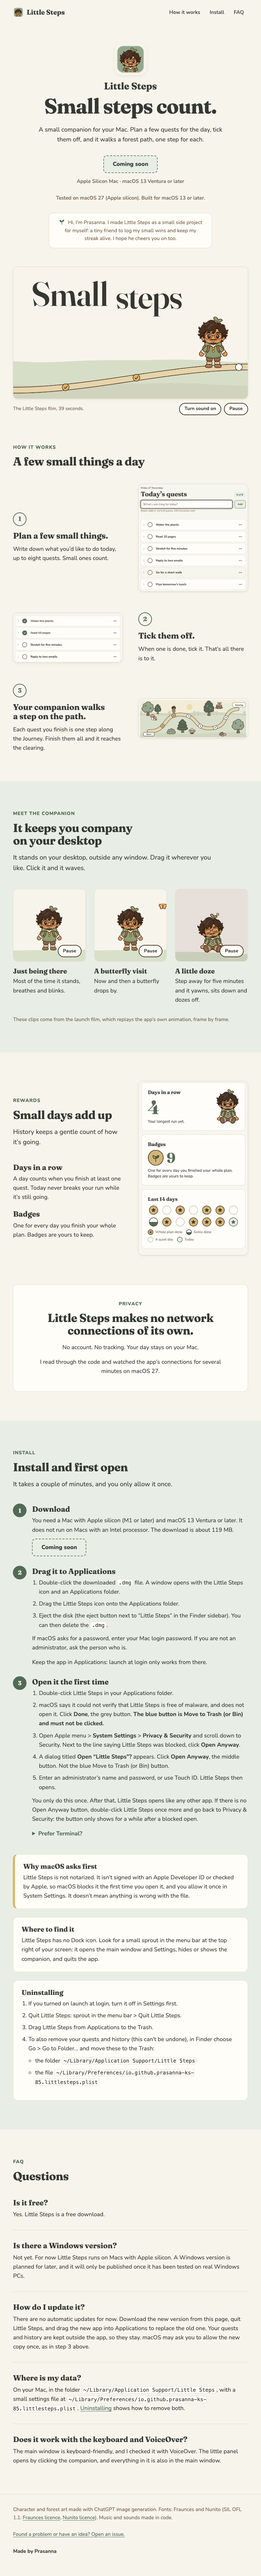
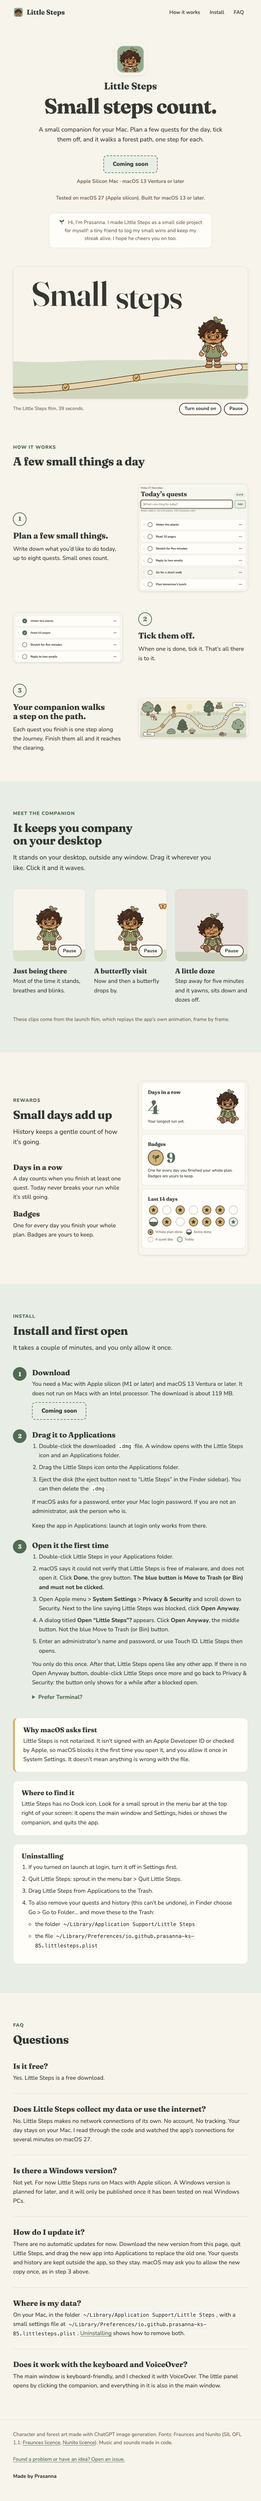
Privacy: from its own section to a FAQ entry

Changed region(s): [[0.0312, 0.0, 0.9375, 0.9962], [0.0312, 0.6849, 0.0625, 0.7471], [0.8125, 0.9339, 0.8438, 0.9651]]

diff --git a/docs/privacy-section.html b/docs/privacy-section.html
@@ -1,32 +1,15 @@
 <!--
-  Privacy section. SHIPPED: this is a copy of what sits in index.html, kept so it can be taken off and
-  put back. The page claims only what was checked: no network connections of its own (code read, and the
-  app's connections watched for several minutes on macOS 27). Do not widen the wording without a longer check.
+  The privacy statement. It is NOT a section any more: it is one FAQ entry in index.html, second in the
+  list, right after "Is it free?". This file is the reference copy of that entry.
 
-  To take it off:
-  1. In index.html, replace the whole <section id="privacy"> ... </section> (it sits between the Rewards
-     and Install sections) with the comment "<!-- 5. Privacy: off the page (docs/privacy-section.html) -->".
-  2. Nothing else: the styles (.section--follow, .privacy-card) stay in assets/css/site.css and no script
-     is involved. Then also drop "tracking" from this check: docs/checks.md expects it only in this section.
+  The page claims only what was checked: no network connections of its own (code read, and the app's
+  connections watched for several minutes on macOS 27). Do not widen the wording without a longer check.
 
-  To put it back:
-  1. Copy the <section> below into index.html, in place of that comment.
-  2. That's all.
+  To change it: edit the <dt>/<dd> pair in the FAQ (<dl class="faq">) in index.html, then update the copy
+  below. No styles or script are involved; it uses the same markup as the other entries.
+
+  To take it off: delete the two lines from index.html. "tracking" should appear in index.html only in
+  this answer (docs/checks.md).
 -->
-<section> below into index.html, in place of the comment
-     "<!-- 5. Privacy: not on the page ... -->", which sits between the Rewards and Install sections.
-  2. That's all. The styles are already in assets/css/site.css (.section--follow, .privacy-card),
-     and no script is involved.
-
-  To take it off again, delete the section from index.html.
--->
-<section class="section section--follow" id="privacy" aria-labelledby="privacy-title">
-  <div class="wrap">
-    <div class="privacy-card">
-      <span class="eyebrow">Privacy</span>
-      <h2 id="privacy-title">Little Steps makes no network connections of its own.</h2>
-      <p>No account. No tracking. Your day stays on your Mac.</p>
-      <p>I read through the code and watched the app’s connections for several minutes on macOS 27.</p>
-    </div>
-  </div>
-</section>
+<dt>Does Little Steps collect my data or use the internet?</dt>
+<dd>No. Little Steps makes no network connections of its own. No account. No tracking. Your day stays on your Mac. I read through the code and watched the app’s connections for several minutes on macOS 27.</dd>

diff --git a/index.html b/index.html
@@ -265,19 +265,7 @@
         </div>
       </section>
 
-      <!-- 5. Privacy (how to take it off or put it back: docs/privacy-section.html) -->
-      <section class="section section--follow" id="privacy" aria-labelledby="privacy-title">
-        <div class="wrap">
-          <div class="privacy-card">
-            <span class="eyebrow">Privacy</span>
-            <h2 id="privacy-title">Little Steps makes no network connections of its own.</h2>
-            <p>No account. No tracking. Your day stays on your Mac.</p>
-            <p>I read through the code and watched the app’s connections for several minutes on macOS 27.</p>
-          </div>
-        </div>
-      </section>
-
-      <!-- 6. Install and first open -->
+      <!-- 5. Install and first open -->
       <section class="section section--sage" id="install" aria-labelledby="install-title">
         <div class="wrap">
           <div class="section-head">
@@ -349,7 +337,7 @@
         </div>
       </section>
 
-      <!-- 7. FAQ -->
+      <!-- 6. FAQ -->
       <section class="section" id="faq" aria-labelledby="faq-title">
         <div class="wrap">
           <div class="section-head">
@@ -359,6 +347,9 @@
           <dl class="faq">
             <dt>Is it free?</dt>
             <dd>Yes. Little Steps is a free download.</dd>
+
+            <dt>Does Little Steps collect my data or use the internet?</dt>
+            <dd>No. Little Steps makes no network connections of its own. No account. No tracking. Your day stays on your Mac. I read through the code and watched the app’s connections for several minutes on macOS 27.</dd>
 
             <dt>Is there a Windows version?</dt>
             <dd>Not yet. For now Little Steps runs on Macs with Apple silicon. A Windows version is planned for later, and it will only be published once it has been tested on real Windows PCs.</dd>
@@ -384,7 +375,7 @@
       </section>
     </main>
 
-    <!-- 8. Footer -->
+    <!-- 7. Footer -->
     <footer class="site-footer">
       <div class="wrap">
         <p>

diff --git a/assets/css/site.css b/assets/css/site.css
@@ -385,9 +385,6 @@ pre code {
 .section {
   padding-block: var(--section-space);
 }
-.section--follow {
-  padding-top: 0;
-}
 .section--sage {
   background: var(--color-pale-sage);
 }
@@ -584,20 +581,6 @@ pre code {
 }
 .reward-list p {
   margin-top: var(--space-2);
-}
-
-/* Privacy (shown only when config.privacy is true) */
-.privacy-card {
-  max-width: 44rem;
-  margin-inline: auto;
-  padding: clamp(32px, 6vw, 56px);
-  border-radius: var(--radius-card);
-  background: var(--color-soft-ivory);
-  border: 1px solid var(--color-hairline);
-  text-align: center;
-}
-.privacy-card p {
-  margin-top: var(--space-4);
 }
 
 /* Install */

diff --git a/assets/js/config.js b/assets/js/config.js
@@ -5,8 +5,8 @@
 //           https://github.com/Prasanna-KS-85/little-steps-site/releases/latest/download/Little-Steps.dmg
 // owner:    the GitHub account that holds the little-steps-site repository.
 //
-// The Privacy section is not a switch: it is plain HTML in index.html.
-// How to take it off or put it back: docs/privacy-section.html.
+// The privacy answer is not a switch: it is a plain FAQ entry in index.html.
+// Where it lives and how to change it: docs/privacy-section.html.
 window.LITTLE_STEPS_CONFIG = {
   download: 'soon',
   owner: 'Prasanna-KS-85',

diff --git a/README.md b/README.md
@@ -19,8 +19,8 @@ Then open http://127.0.0.1:8765/ and stop the server with Ctrl+C when done.
   release, `Little-Steps.dmg`)
 - `owner`: the GitHub account in that link
 
-The Privacy section is in the page. How to take it off again, and put it back, is in
-`docs/privacy-section.html`.
+There is no Privacy section. The privacy statement is one FAQ entry in `index.html` ("Does Little Steps
+collect my data or use the internet?"). Where it lives and how to change it: `docs/privacy-section.html`.
 
 ## Files
 
@@ -32,7 +32,7 @@ The Privacy section is in the page. How to take it off again, and put it back, i
 | `assets/fonts/`          | Fraunces and Nunito from the app, with their SIL OFL 1.1 licence texts      |
 | `assets/img`, `video`    | Built by `tools/build_assets.py` from the app and launch repos (read-only)  |
 | `tools/`                 | Dev-only: asset build, contrast check, screenshot and request audit         |
-| `docs/`                  | Open items, checks, screenshots, the Privacy section (how to remove or restore) |
+| `docs/`                  | Open items, checks, screenshots, the FAQ privacy entry (where it lives, how to change it) |
 
 ## Rebuild the images and videos
 

diff --git a/docs/site-open-items.md b/docs/site-open-items.md
@@ -5,10 +5,11 @@ Each one names what would close it.
 
 ## Waiting on a check
 
-1. **Privacy section is in the page, with a modest check behind it.** It says only that Little Steps
-   makes no network connections of its own, and that I read through the code and watched the app's
+1. **The privacy statement is a FAQ entry, with a modest check behind it.** The entry "Does Little
+   Steps collect my data or use the internet?" (second in the FAQ in `index.html`) says only that Little
+   Steps makes no network connections of its own, and that I read through the code and watched the app's
    connections for several minutes on macOS 27. Do not widen it (no "never", no audit claims) without a
-   longer check. How to take it off or put it back: `docs/privacy-section.html`.
+   longer check. Where it lives and how to change it: `docs/privacy-section.html`.
 2. **The hero film is cut at 39.1 s, not the full 45.3 s.** From about frame 1176 the v2 film shows the
    same privacy line, and its lockup shows a literal `[site]` placeholder. The loop stops at frame
    1174, the end of the yawn (`HERO_END_FRAME` in `tools/build_assets.py`). To use the full film, the

diff --git a/docs/checks.md b/docs/checks.md
@@ -98,3 +98,13 @@ Sage at 4.95:1.
   (`--sections=install,privacy,footer`).
 - Not checked: the Open Graph tags were not fetched from the live site, and the Feedback link was not
   clicked (no external requests).
+
+## Privacy moved into the FAQ (28 November 2026)
+
+- The standalone Privacy section, its styles (`.privacy-card`, `.section--follow`) and its comment are
+  gone from the page. No `#privacy` link existed. The statement is now the second FAQ entry.
+- Requests at 390, 768 and 1440 px (local server, headless Chrome): all to the page's own origin.
+- `python3 tools/contrast.py`: all pairs pass.
+- "tracking" appears once in `index.html`, inside that FAQ answer. Not found in CSS, JS or `404.html`.
+- Screenshots: `docs/screens/home-faq-{390,1440}.png` (`--sections=faq`). The earlier
+  `home-privacy-*.png` crops were removed because that section no longer exists.
